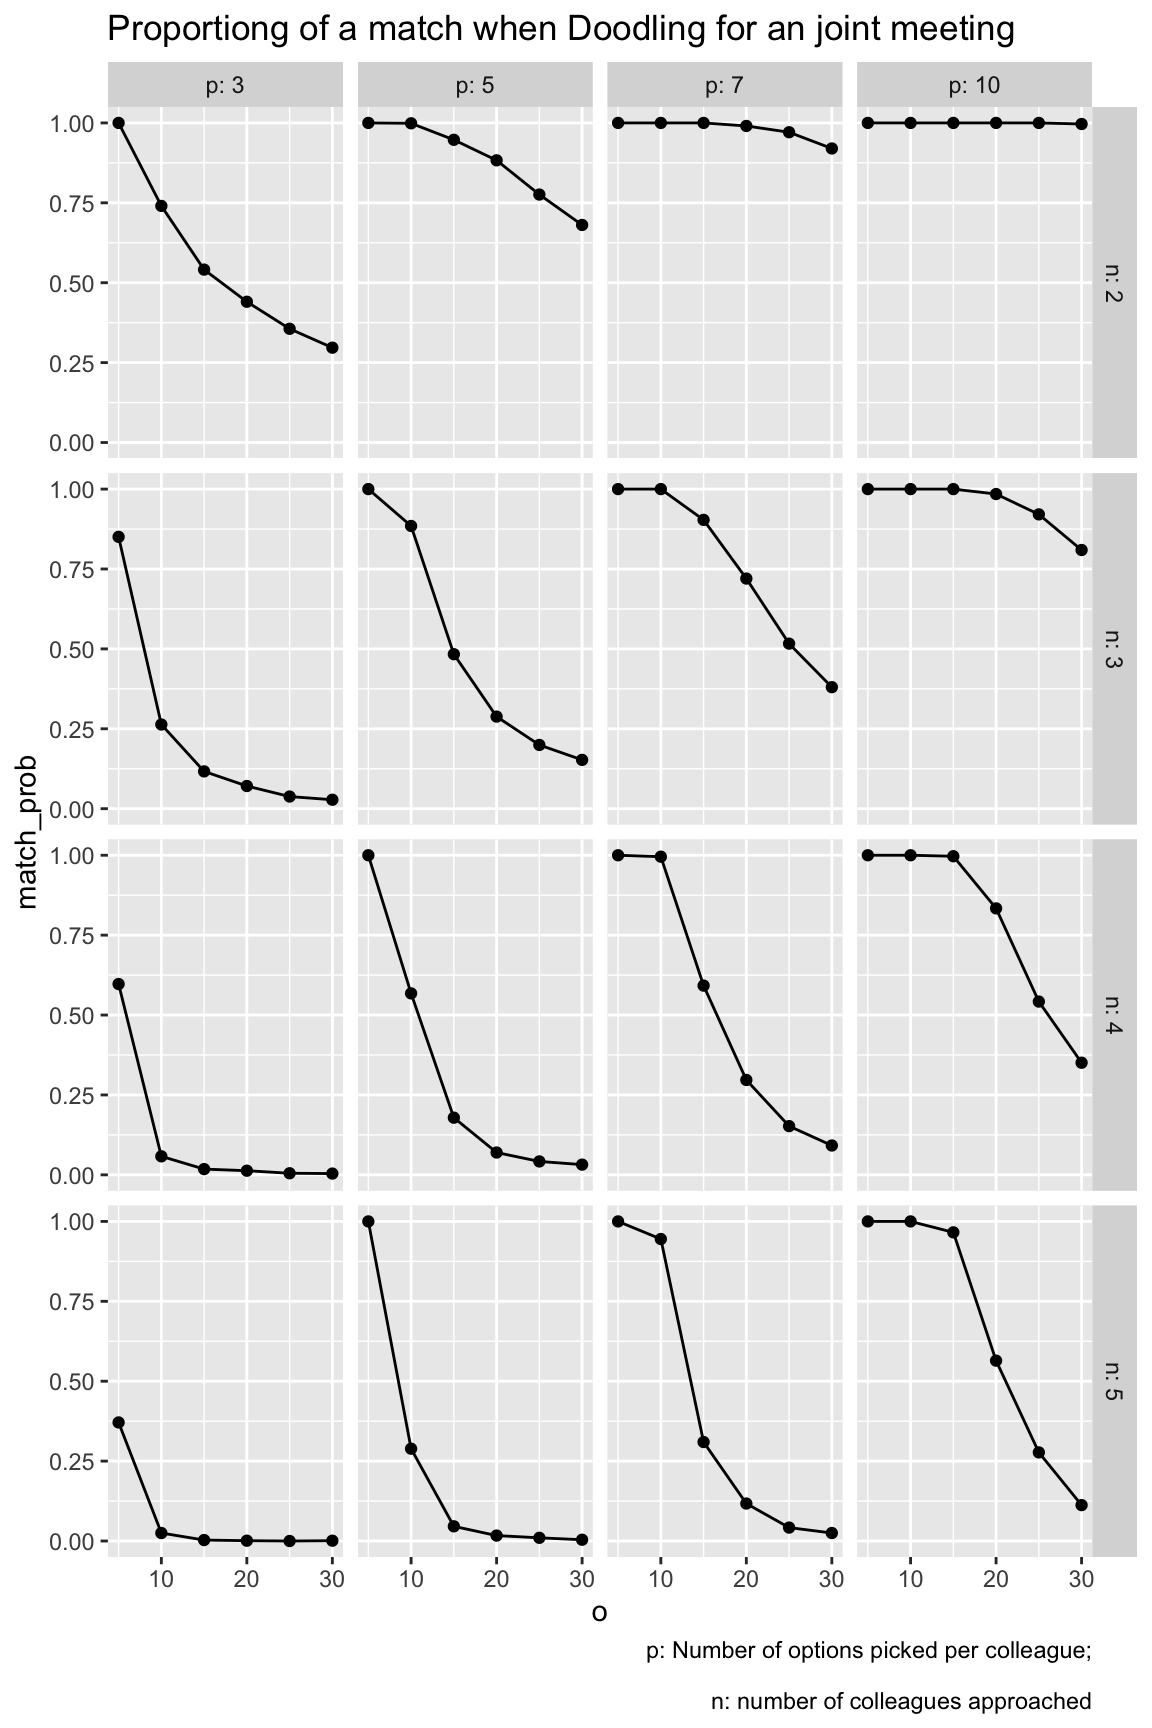
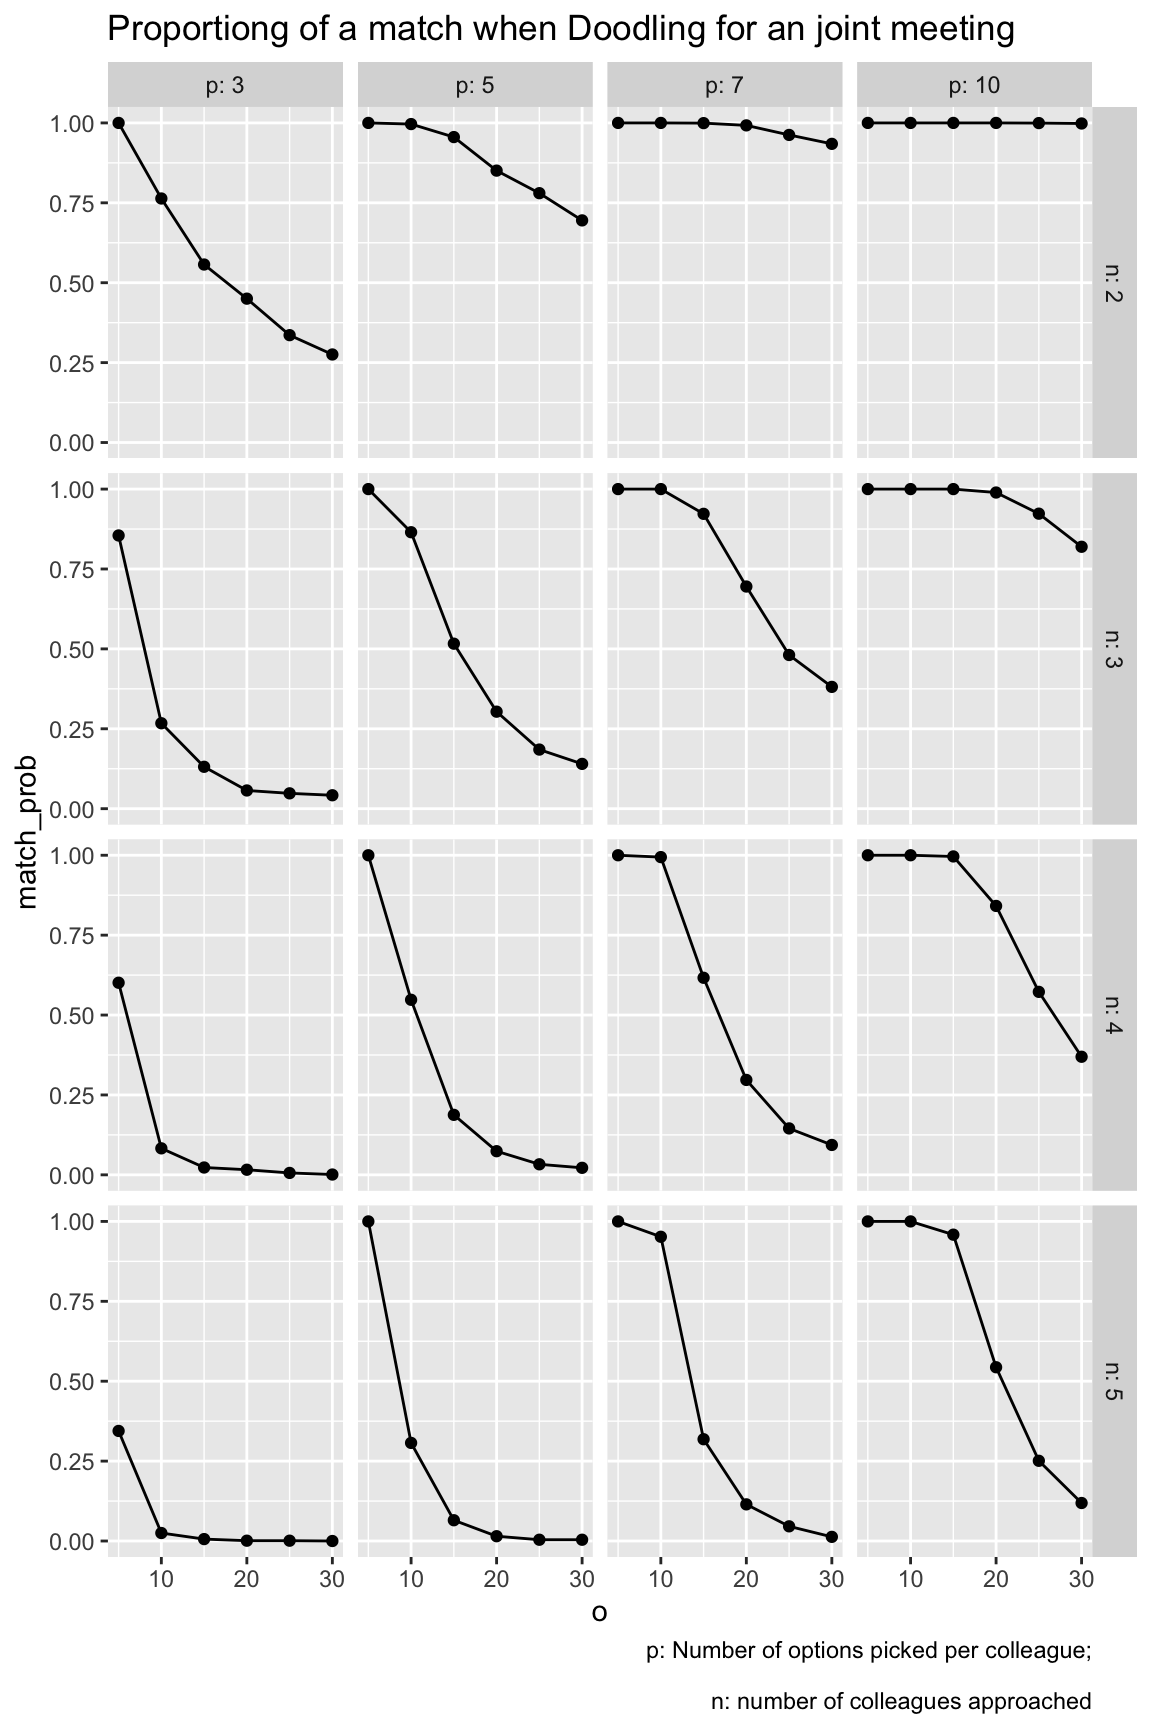
update doodle

diff --git a/content/post/2024-01-29-simulating-the-paradox-of-multiple-collision/index.html b/content/post/2024-01-29-simulating-the-paradox-of-multiple-collision/index.html
@@ -265,25 +265,27 @@ plot_matches(smples_tbl3,  n_colleagues, p = p, o = o, dep = dep)</code></pre>
 <div id="populate-grid" class="section level2" number="9.6">
 <h2><span class="header-section-number">9.6</span> Populate grid</h2>
 <pre class="r"><code>tic()
-grid &lt;- populate_grid(n_colleagues = 2:5, 
+grid1 &lt;- populate_grid(n_colleagues = 2:5, 
                       o = c(5, 10, 15, 20, 25, 30), 
                       p = c(3, 5, 7, 10), 
                       dep = 0)
 toc()
-#&gt; 100.953 sec elapsed</code></pre>
+</code></pre>
 <p>Quite slow.</p>
-<pre class="r"><code>glimpse(grid)
+<p>It’s quicker to load it from disk.</p>
+<pre class="r"><code>data(grid1)</code></pre>
+<pre class="r"><code>glimpse(grid1)
 #&gt; Rows: 96
 #&gt; Columns: 5
 #&gt; $ n_colleagues &lt;int&gt; 2, 2, 2, 2, 2, 2, 2, 2, 2, 2, 2, 2, 2, 2, 2, 2, 2, 2, 2, …
 #&gt; $ o            &lt;dbl&gt; 5, 5, 5, 5, 10, 10, 10, 10, 15, 15, 15, 15, 20, 20, 20, 2…
 #&gt; $ p            &lt;dbl&gt; 3, 5, 7, 10, 3, 5, 7, 10, 3, 5, 7, 10, 3, 5, 7, 10, 3, 5,…
 #&gt; $ dep          &lt;dbl&gt; 0, 0, 0, 0, 0, 0, 0, 0, 0, 0, 0, 0, 0, 0, 0, 0, 0, 0, 0, …
-#&gt; $ match_prob   &lt;dbl&gt; 1.0000000, 1.0000000, 1.0000000, 1.0000000, 0.7403035, 0.…</code></pre>
+#&gt; $ match_prob   &lt;dbl&gt; 1.0000000, 1.0000000, 1.0000000, 1.0000000, 0.7635304, 0.…</code></pre>
 </div>
 <div id="visualize-grid-1" class="section level2" number="9.7">
 <h2><span class="header-section-number">9.7</span> Visualize grid 1</h2>
-<pre class="r"><code>grid |&gt; 
+<pre class="r"><code>grid1 |&gt; 
   rename(n = n_colleagues) |&gt; 
   ggplot(aes(x = o, y = match_prob)) +
   geom_line() +
@@ -299,8 +301,8 @@ toc()
 <div id="visualize-grid-2" class="section level2" number="9.8">
 <h2><span class="header-section-number">9.8</span> Visualize grid 2</h2>
 <p>Let’s try a different visualization.</p>
-<pre class="r"><code>vis_grid(grid)</code></pre>
-<p><img src="{{< blogdown/postref >}}index_files/figure-html/unnamed-chunk-11-1.png" width="100%" style="display: block; margin: auto;" /></p>
+<pre class="r"><code>vis_grid(grid1)</code></pre>
+<p><img src="{{< blogdown/postref >}}index_files/figure-html/unnamed-chunk-12-1.png" width="100%" style="display: block; margin: auto;" /></p>
 </div>
 <div id="caveats" class="section level2" number="9.9">
 <h2><span class="header-section-number">9.9</span> Caveats</h2>
@@ -374,11 +376,11 @@ Pr_U_new &lt;- Pr_U - d*Pr_U</code></pre>
 <h2><span class="header-section-number">10.3</span> Function for reallocating probability</h2>
 <p>Check:</p>
 <pre class="r"><code>sample_with_dependency(p_set = c(3, 1, 9), o = 10, dep = .6)
-#&gt; [1] 1 6 2</code></pre>
+#&gt; [1]  4  9 10</code></pre>
 <p>Check:</p>
 <pre class="r"><code>slots_chosen &lt;- sample_with_dependency(p_set = c(3, 1, 9), o = 10, dep = .3)
 slots_chosen
-#&gt; [1] 4 3 1</code></pre>
+#&gt; [1] 9 1 4</code></pre>
 </div>
 <div id="examples-with-dependency" class="section level2" number="10.4">
 <h2><span class="header-section-number">10.4</span> Examples with dependency</h2>
@@ -386,7 +388,7 @@ slots_chosen
               o = 8,
               p = 1,
               dep = .6)
-#&gt; [1] 0.426</code></pre>
+#&gt; [1] 0.445</code></pre>
 </div>
 <div id="grid-of-different-parameter-values-1" class="section level2" number="10.5">
 <h2><span class="header-section-number">10.5</span> Grid of different parameter values</h2>
